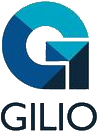
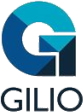
ADD: mejoras boton link2

diff --git a/index.html b/index.html
@@ -231,7 +231,7 @@
                 <div class="container portfolio-info">
                   <h4>Grupos Electrógenos</h4>
                   <a href="./assets/img/products/FONDO-NEGRO/GRUPOS ELECTROGENOS.png" data-gallery="portfolio-gallery-app" class="glightbox">
-                  <button>Más info</button></a>
+                  <button class="button1">Más info</button></a>
                 </div>
               </div>
             </div><!-- End Item -->
@@ -242,7 +242,7 @@
                 <div class="portfolio-info">
                   <h4>Compresores</h4>
                   <a href="./assets/img/products/FONDO-NEGRO/COMPRESORES.png" data-gallery="portfolio-gallery-app" class="glightbox">
-                  <button>Más info</button></a>
+                    <button class="button1">Más info</button></a>
                 </div>
               </div>
             </div><!-- End Item -->
@@ -253,7 +253,7 @@
                 <div class="portfolio-info">
                   <h4>Apiladores y Autoelevadores</h4>
                   <a href="./assets/img/products/FONDO-NEGRO/APILADOR-AUTOELEVADORES.png" data-gallery="portfolio-gallery-app" class="glightbox">
-                  <button>Más info</button></a>
+                    <button class="button1">Más info</button></a>
                 </div>
               </div>
             </div><!-- End Item -->
@@ -264,7 +264,7 @@
                 <div class="portfolio-info">
                   <h4>Plataformas,Plumas,Telescópicas</h4>
                   <a href="./assets/img/products/FONDO-NEGRO/PLATAFORMAS.png" data-gallery="portfolio-gallery-app" class="glightbox">
-                  <button>Más info</button></a>
+                    <button class="button1">Más info</button></a>
                 </div>
               </div>
             </div><!-- End Item -->
@@ -275,7 +275,7 @@
                 <div class="portfolio-info">
                   <h4>Maquinaria Vial</h4>
                   <a href="./assets/img/products/FONDO-NEGRO/AUTO ELEVADORES.png" data-gallery="portfolio-gallery-app" class="glightbox">
-                  <button>Más info</button></a>
+                    <button class="button1">Más info</button></a>
                 </div>
               </div>
             </div><!-- End Item -->
@@ -286,7 +286,7 @@
                 <div class="portfolio-info">
                   <h4>Kits de Mantenimiento</h4>
                   <a href="./assets/img/products/FONDO-NEGRO/KIT MANTENIMIENTO.png data-gallery=" data-gallery="portfolio-gallery-app" class="glightbox">
-                  <button>Más info</button></a>
+                    <button class="button1">Más info</button></a>
                 </div>
               </div>
             </div><!-- End  Item -->

diff --git a/assets/css/mystyles.css b/assets/css/mystyles.css
@@ -4,8 +4,8 @@
   align-items: center;
 }
 .img-fluid2{
-  width: 110px;
-  height: 45px;
+  width: 93px;
+  height: 35px;
 }
 .div_header--img {
   width: 100%;
@@ -44,7 +44,7 @@
   font-size: 1.2rem;
   text-align: center;
 }
-button{
+.button1{
   background:#dacb00;
   color:#fff;
   border:none;
@@ -56,11 +56,11 @@ button{
   transition:800ms ease all;
   outline:none;
 }
-button:hover{
+.button1:hover{
   background:#000000d7;
   color:#ffffff;
 }
-button:before,button:after{
+.button1:before,.button1:after{
   content:'';
   position:absolute;
   top:0;
@@ -70,13 +70,13 @@ button:before,button:after{
   background: #ffe602;
   transition:400ms ease all;
 }
-button:after{
+.button1:after{
   right:inherit;
   top:inherit;
   left:0;
   bottom:0;
 }
-button:hover:before,button:hover:after{
+.button1:hover:before,.button1:hover:after{
   width:100%;
   transition:800ms ease all;
 }
